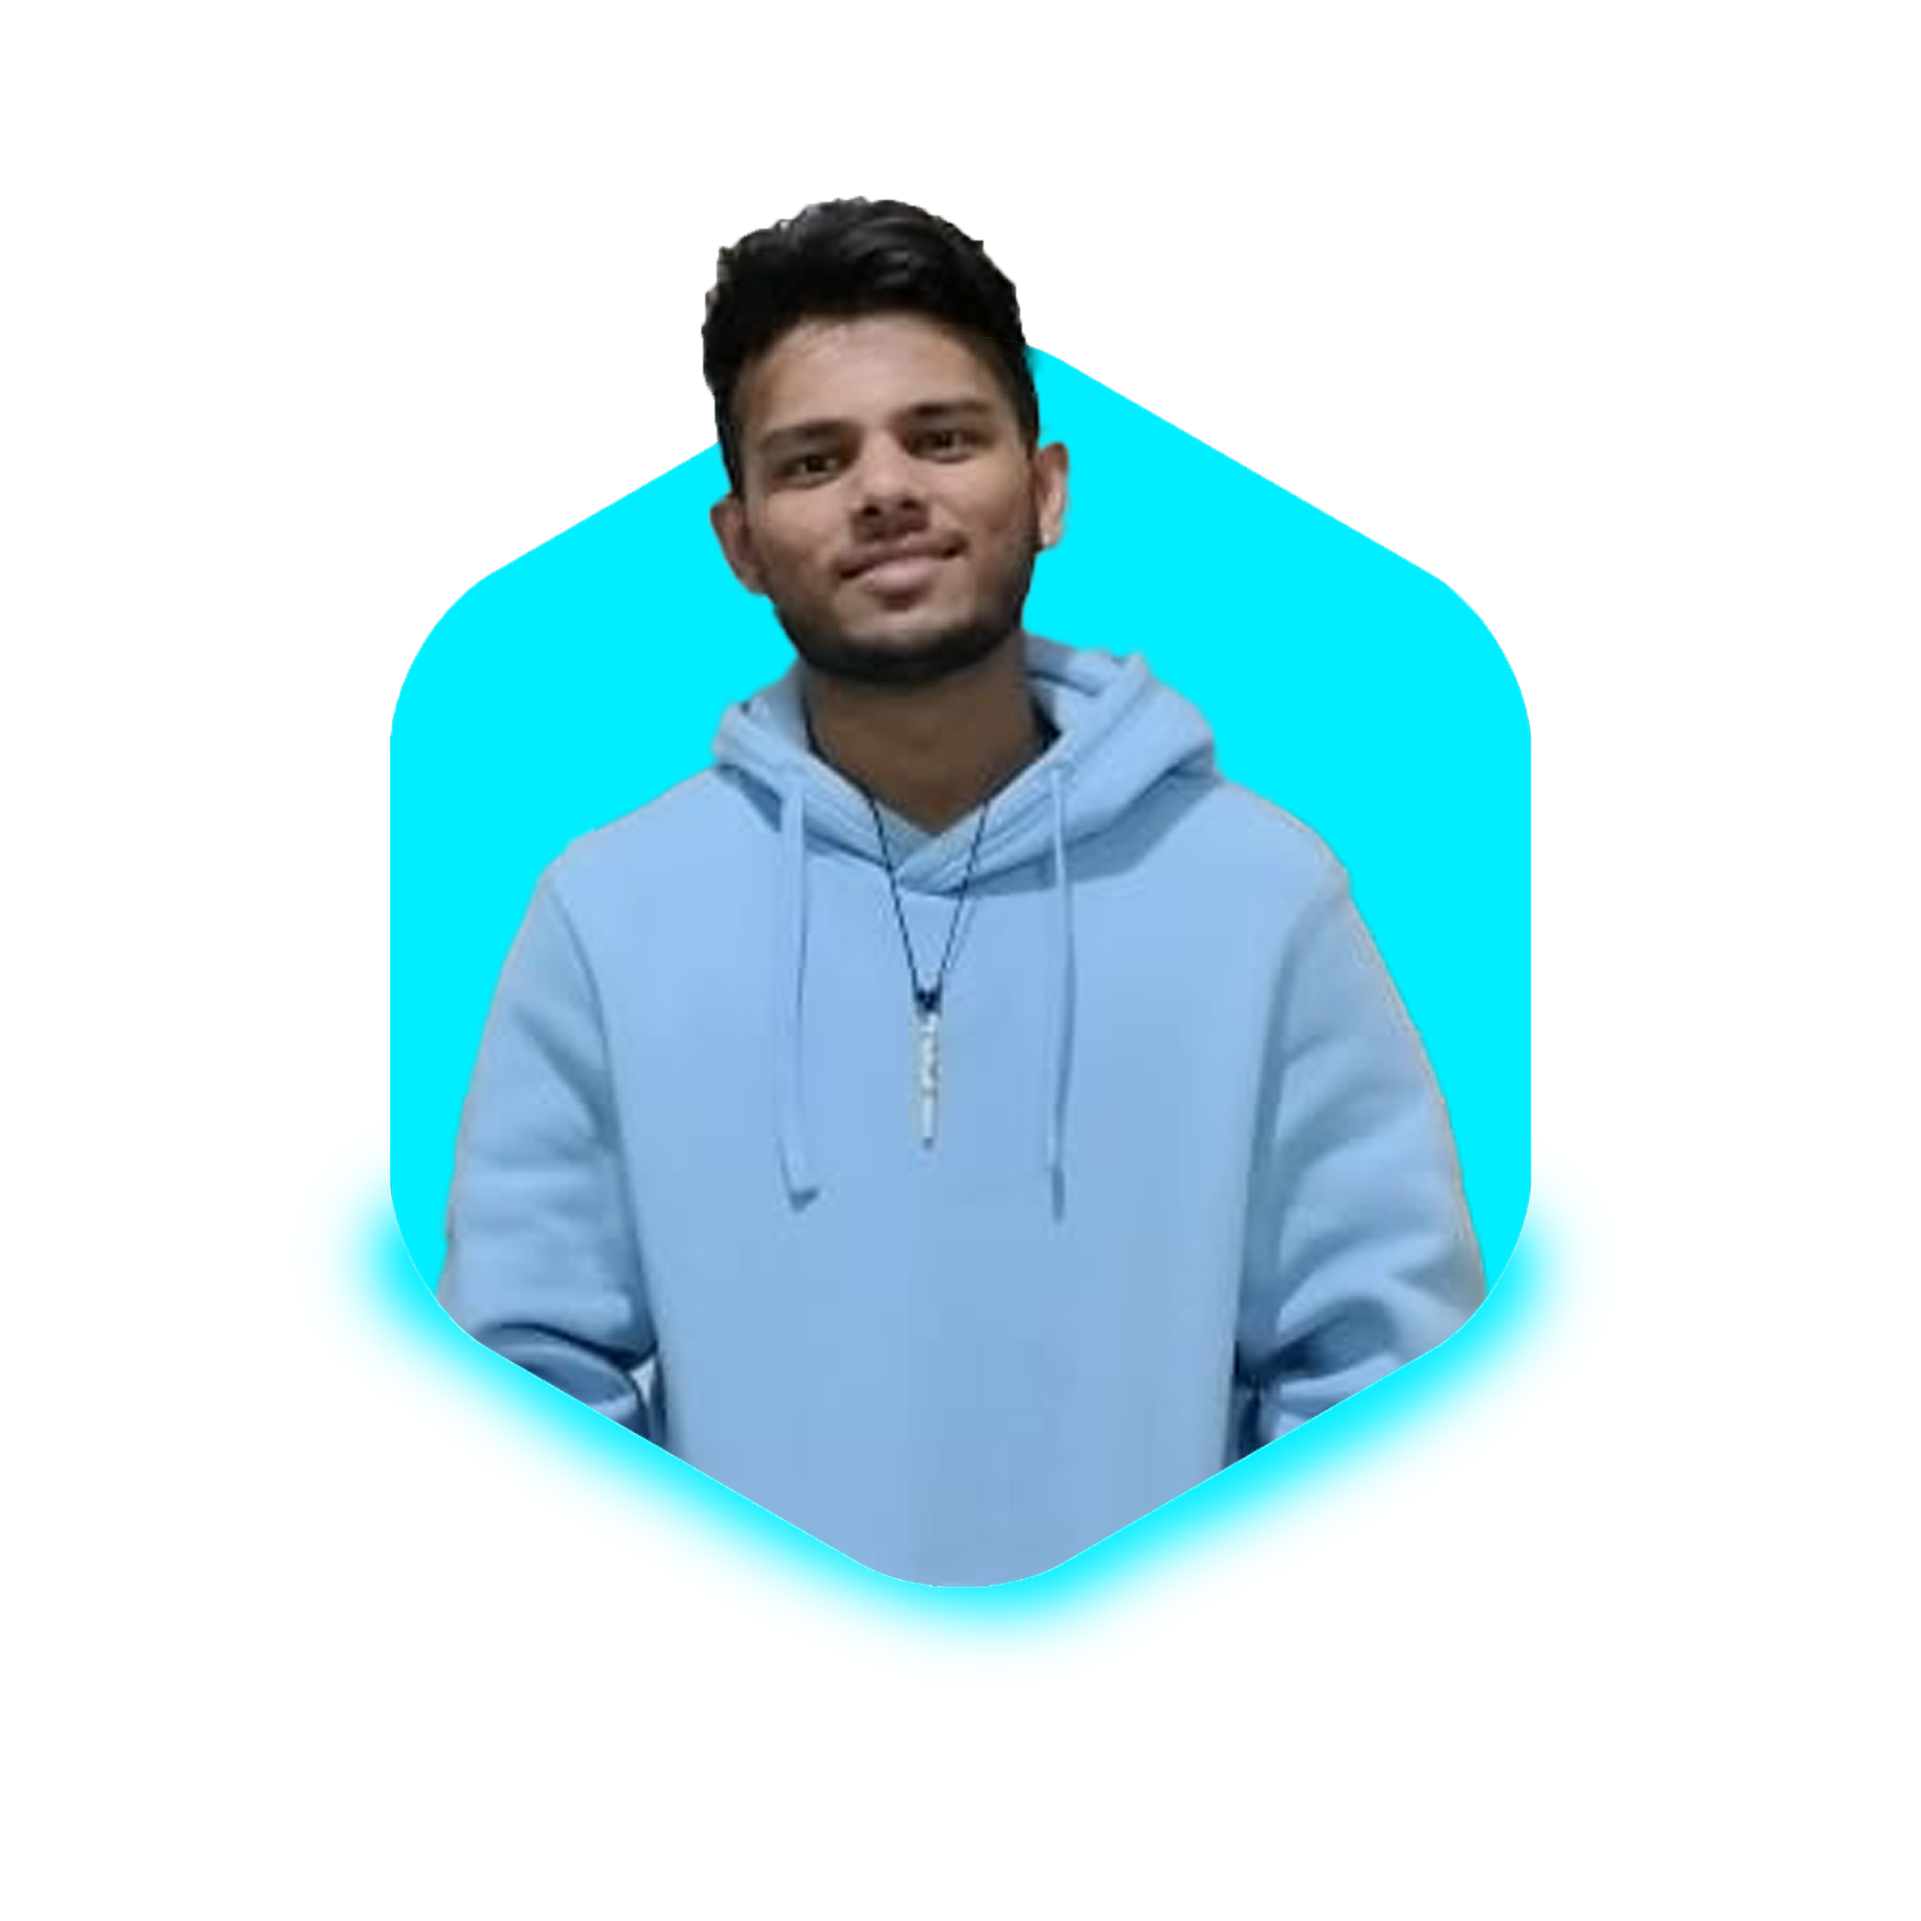
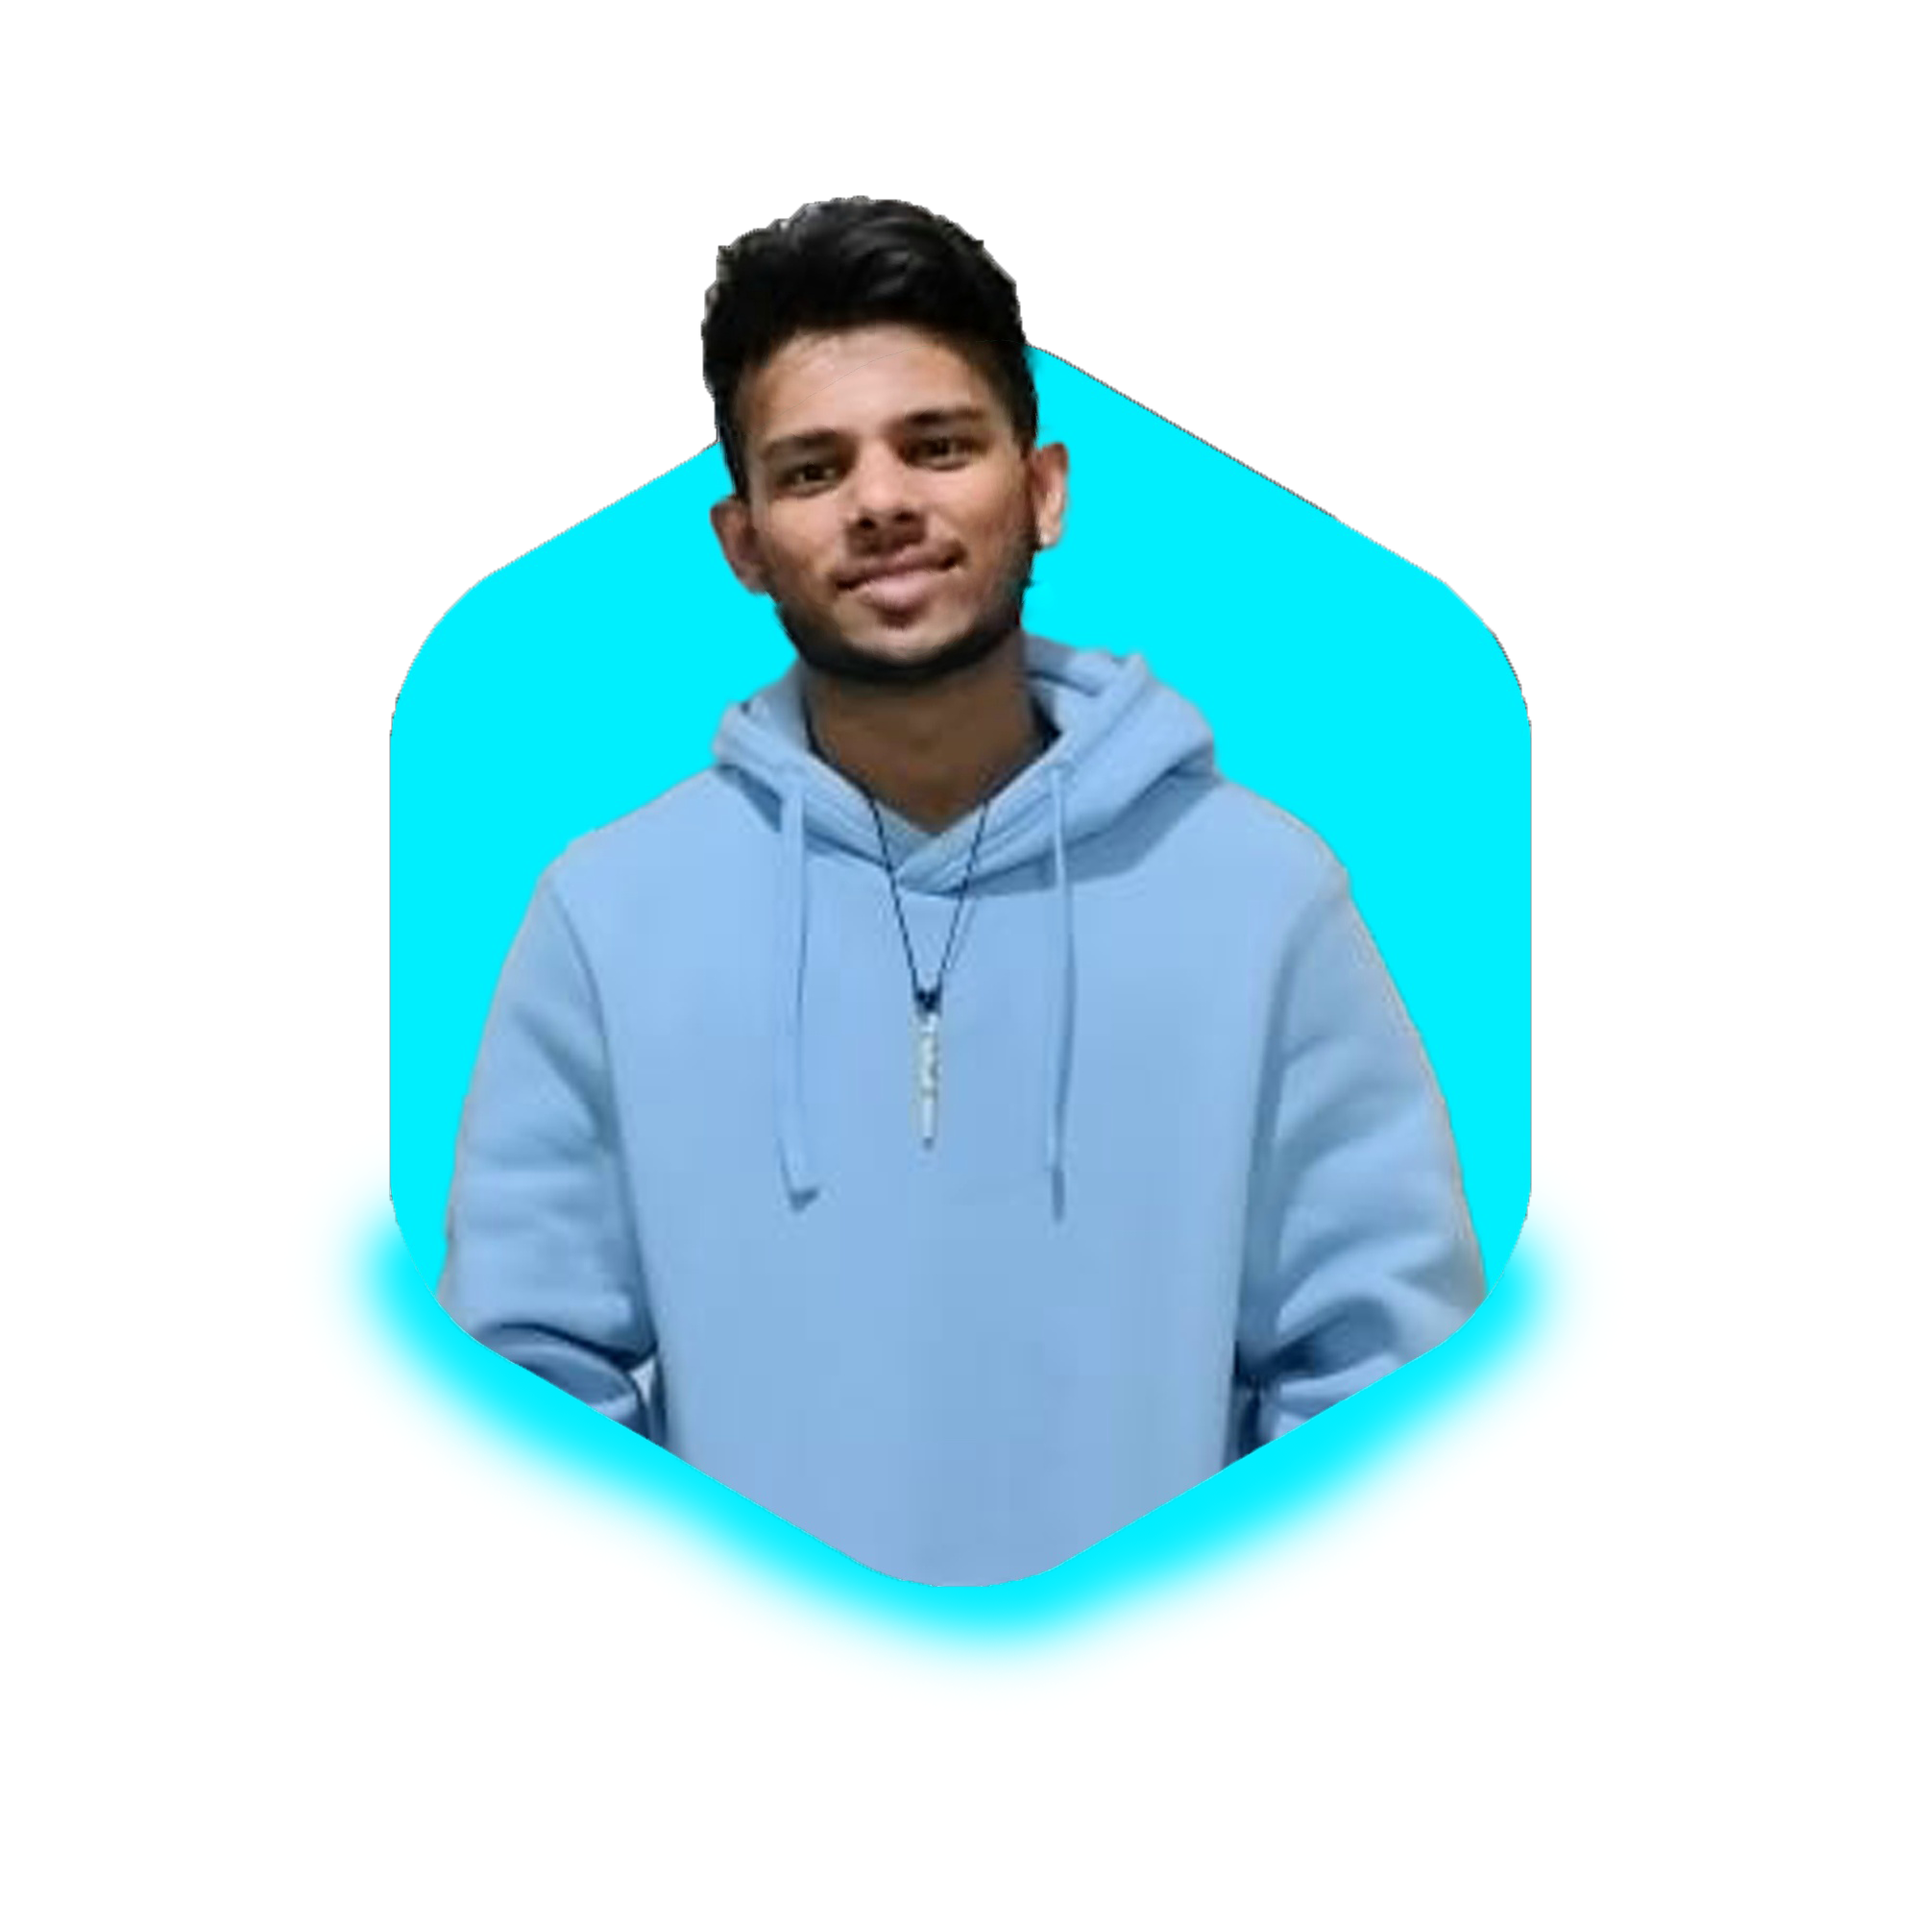
commit changes

Changed region(s): [[0.186, 0.62, 0.806, 0.868], [0.372, 0.155, 0.558, 0.341]]

diff --git a/public/index.html b/public/index.html
@@ -87,7 +87,7 @@
   <!-- about section design -->
   <section class="about" id="about">
     <div class="about-img">
-      <img src="Rugwed_final.png" alt="">
+      <img src="Rugwedfinal.png" alt="">
     </div>
     <div class="about-content">
       <h2 class="heading">About <span>Me</span></h2>
@@ -171,7 +171,7 @@
         </div>
         <div class="skill_bar">
           <div class="info">
-            <p>MongoDB</p>
+            <p>MongoDB </p>
             <P>80%</P>
           </div>
           <div class="bar">
@@ -233,11 +233,11 @@
       </div>
 
       <div class="portfolio-box">
-        <img src="pandu1.png" alt="">
+        <img src="pandus.png" alt="">
         <div class="portfolio-layer">
-          <h4>Weather App</h4>
-          <p>HTML, CSS, JAVASCRIPT</p>
-          <a href="https://github.com/rugs07/Weather-App"><i class='bx bx-link-external'></i></a>
+          <h4>IMDB Clone</h4>
+          <p>HTML, CSS, ReactJs, TMDB API</p>
+          <a href="https://github.com/rugs07/IMDB-Clone"><i class='bx bx-link-external'></i></a>
         </div>
       </div>
 
